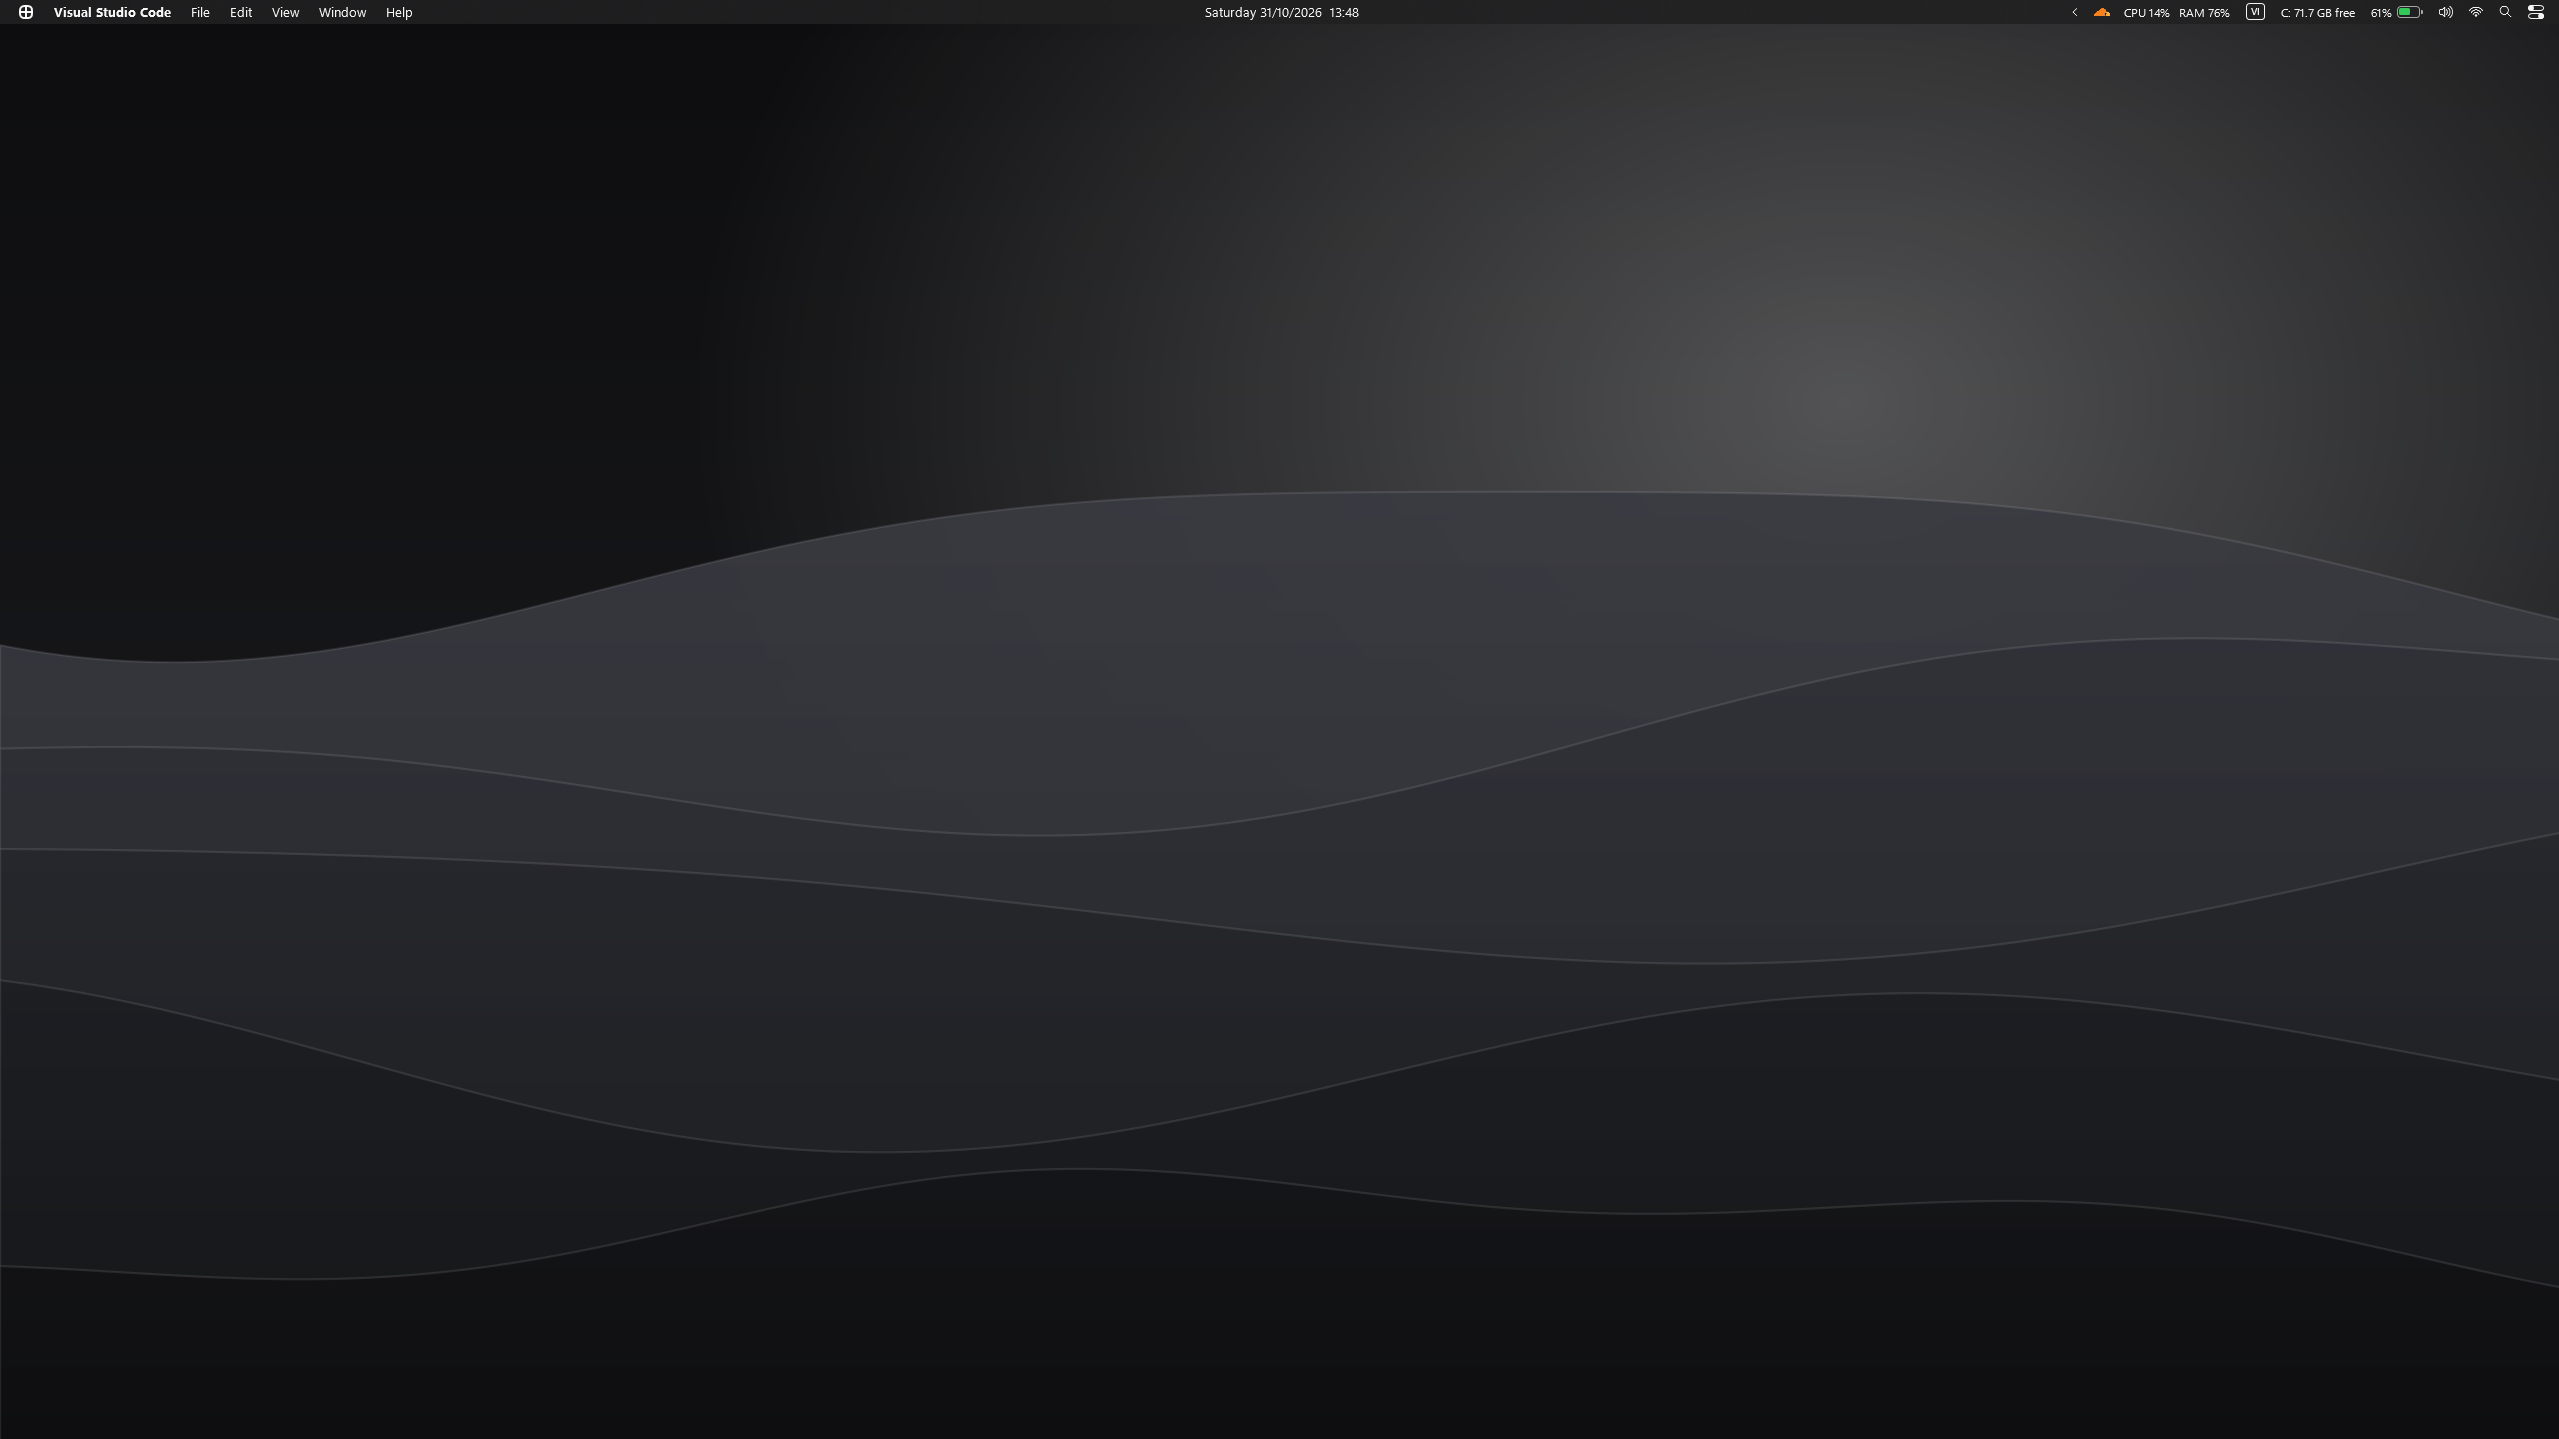
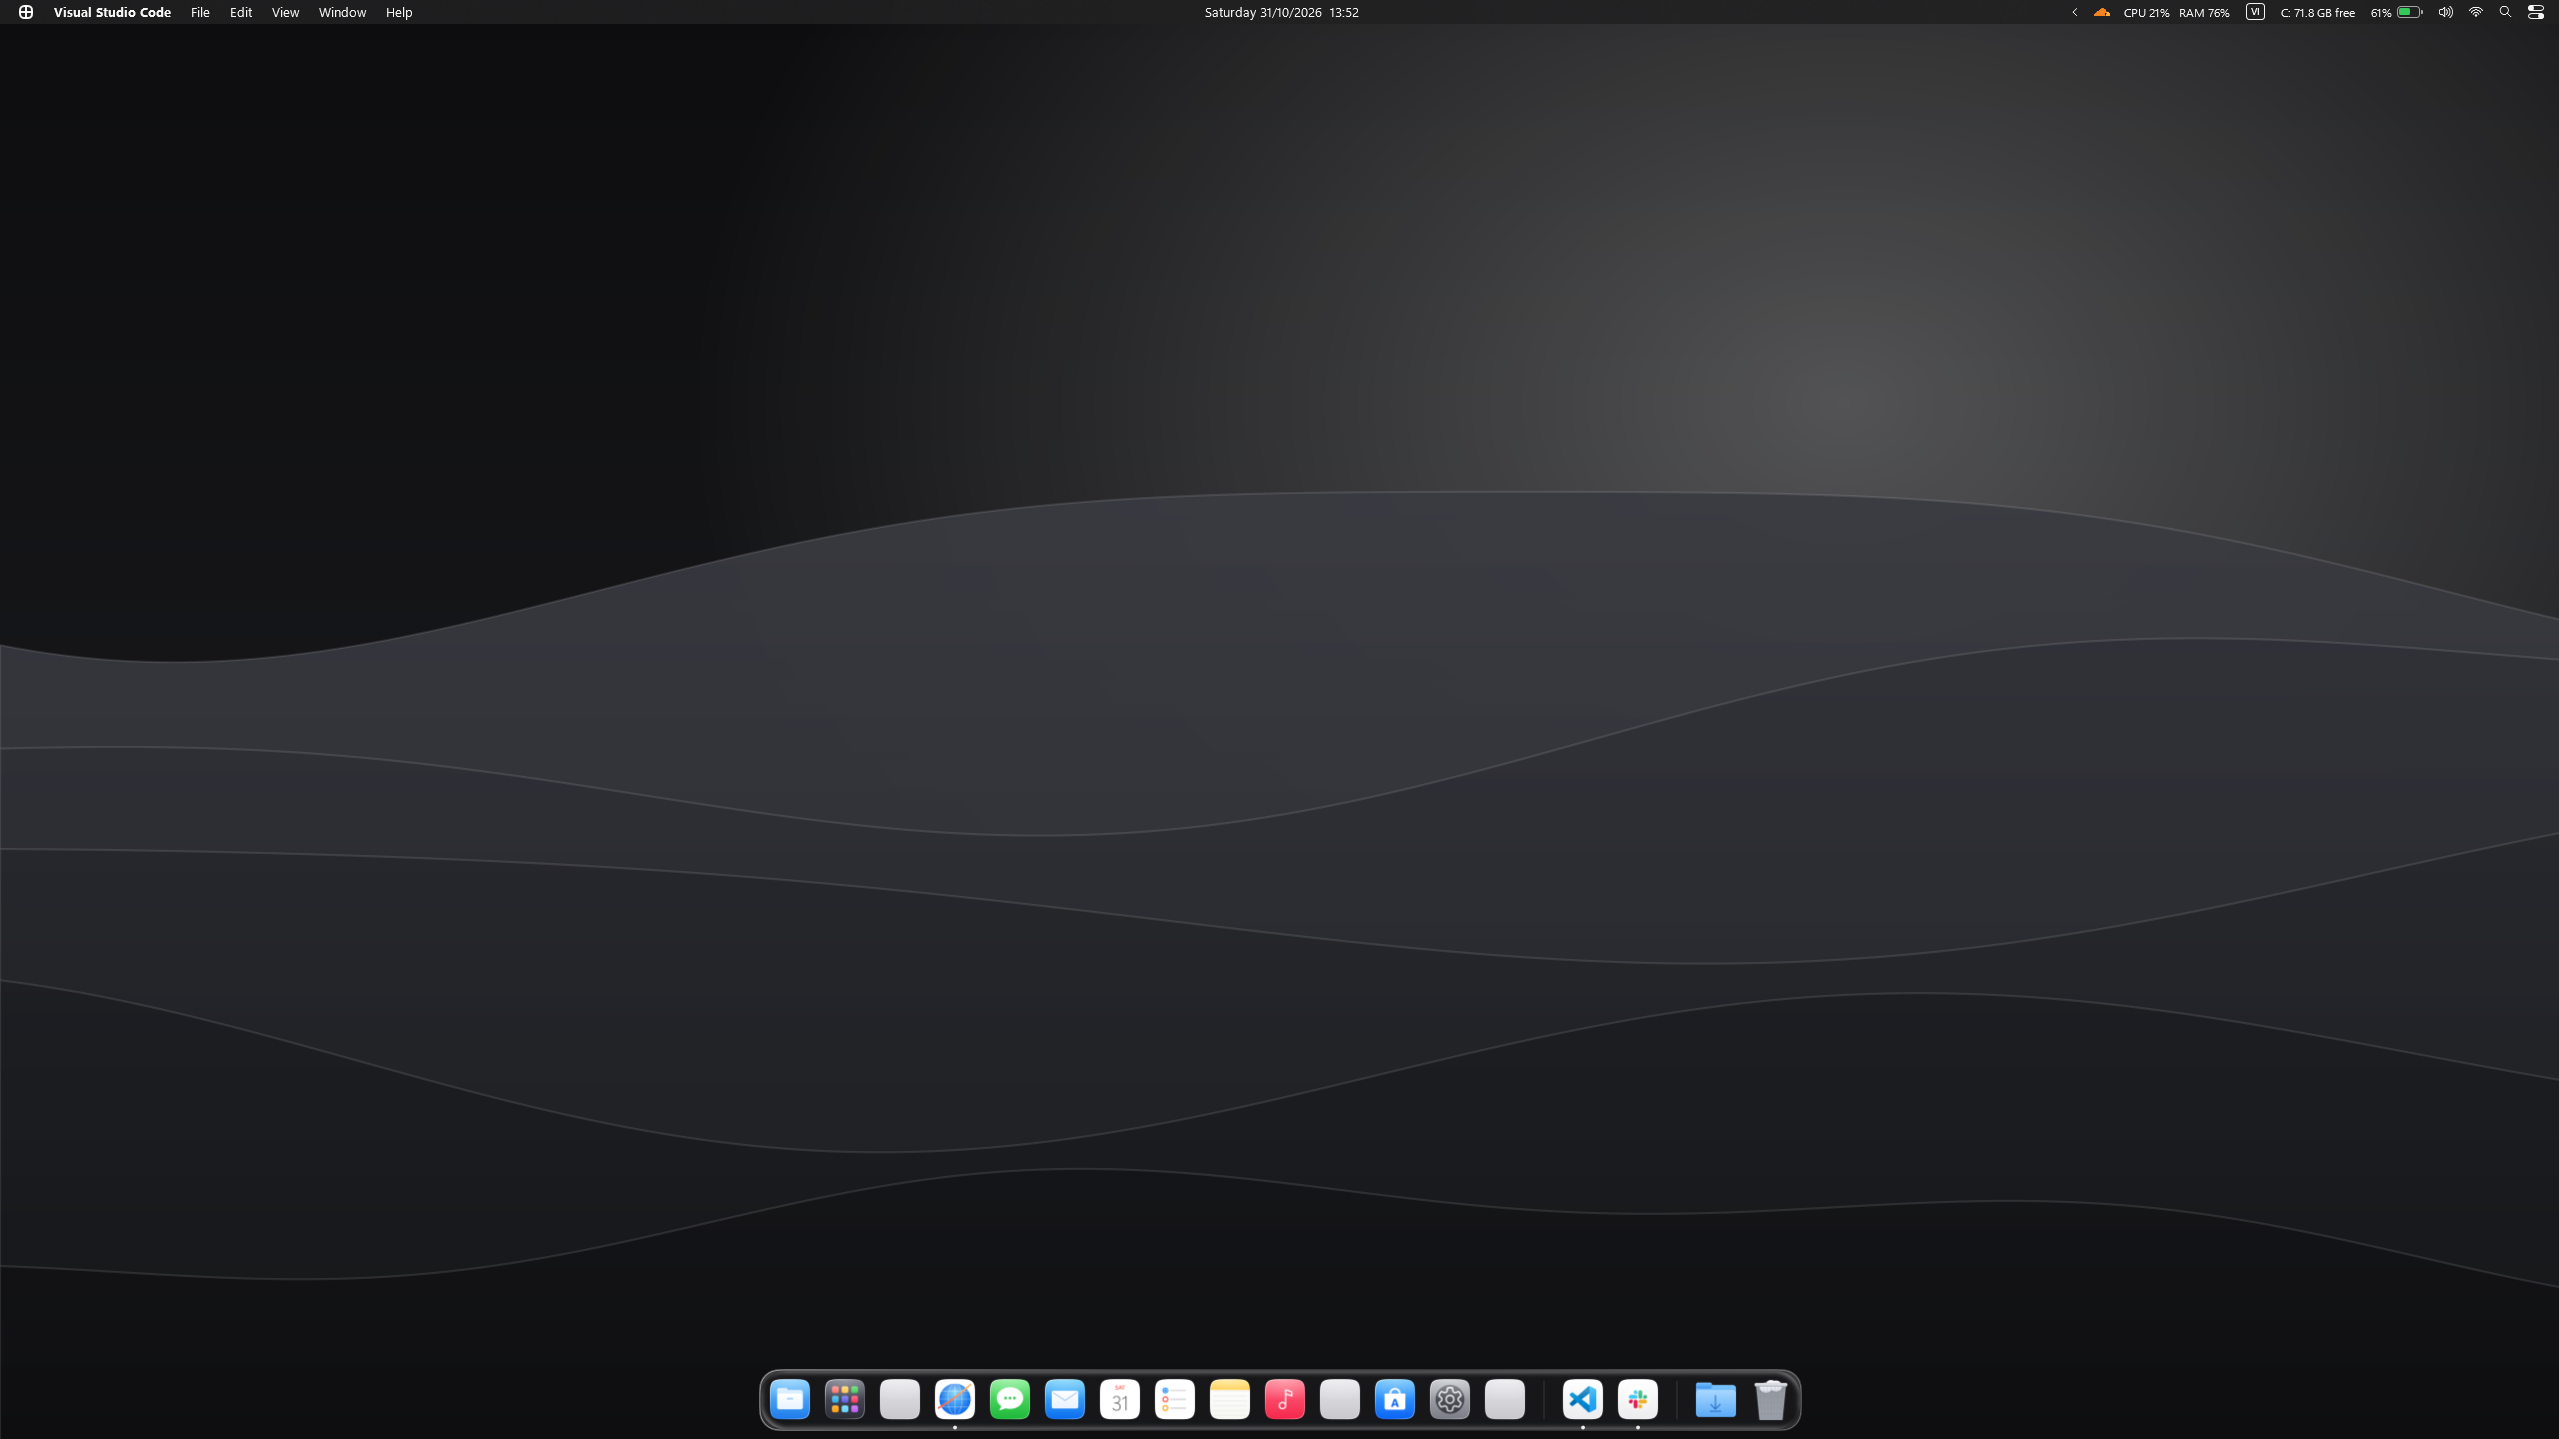
docs: single desktop screenshot showing menu bar and Dock

Changed region(s): [[0.2778, 0.9479, 0.71, 1.0]]

diff --git a/README.md b/README.md
@@ -1,8 +1,6 @@
 # MacWin — giao diện kiểu macOS cho Windows 10/11
 
-![MacWin trên desktop: menu bar trong mờ với tên app, đồng hồ, CPU/RAM, pin](docs/screenshots/desktop.png)
-
-<p align="center"><img src="docs/screenshots/dock.png" width="100%" alt="Dock Liquid Glass: Finder, Launchpad, Trình duyệt, Tin nhắn, Mail, Lịch, Reminders, Notes, Music, Store, Settings, app đang chạy sau vạch ngăn, Downloads và Thùng rác"></p>
+![MacWin trên desktop: menu bar trong mờ phía trên, Dock Liquid Glass phía dưới](docs/screenshots/desktop.png)
 
 <p align="center">
   <img src="docs/screenshots/settings-appearance.png" width="49%" alt="Settings ▸ Appearance: Light/Dark/Auto, màu nhấn, Liquid Glass, Live glass, Transparency, Window buttons">
